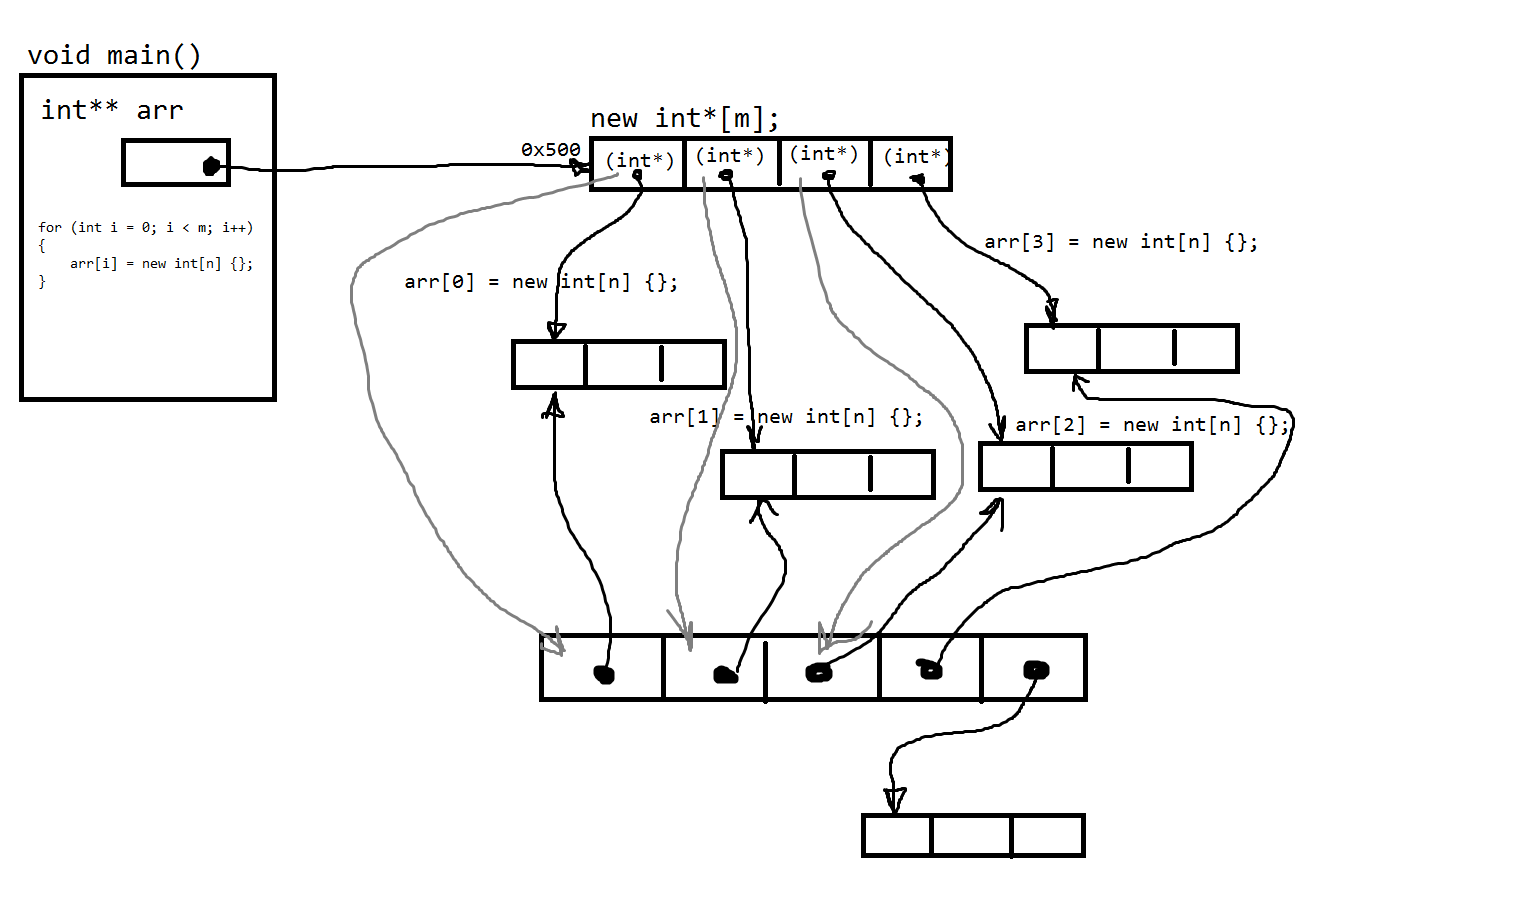
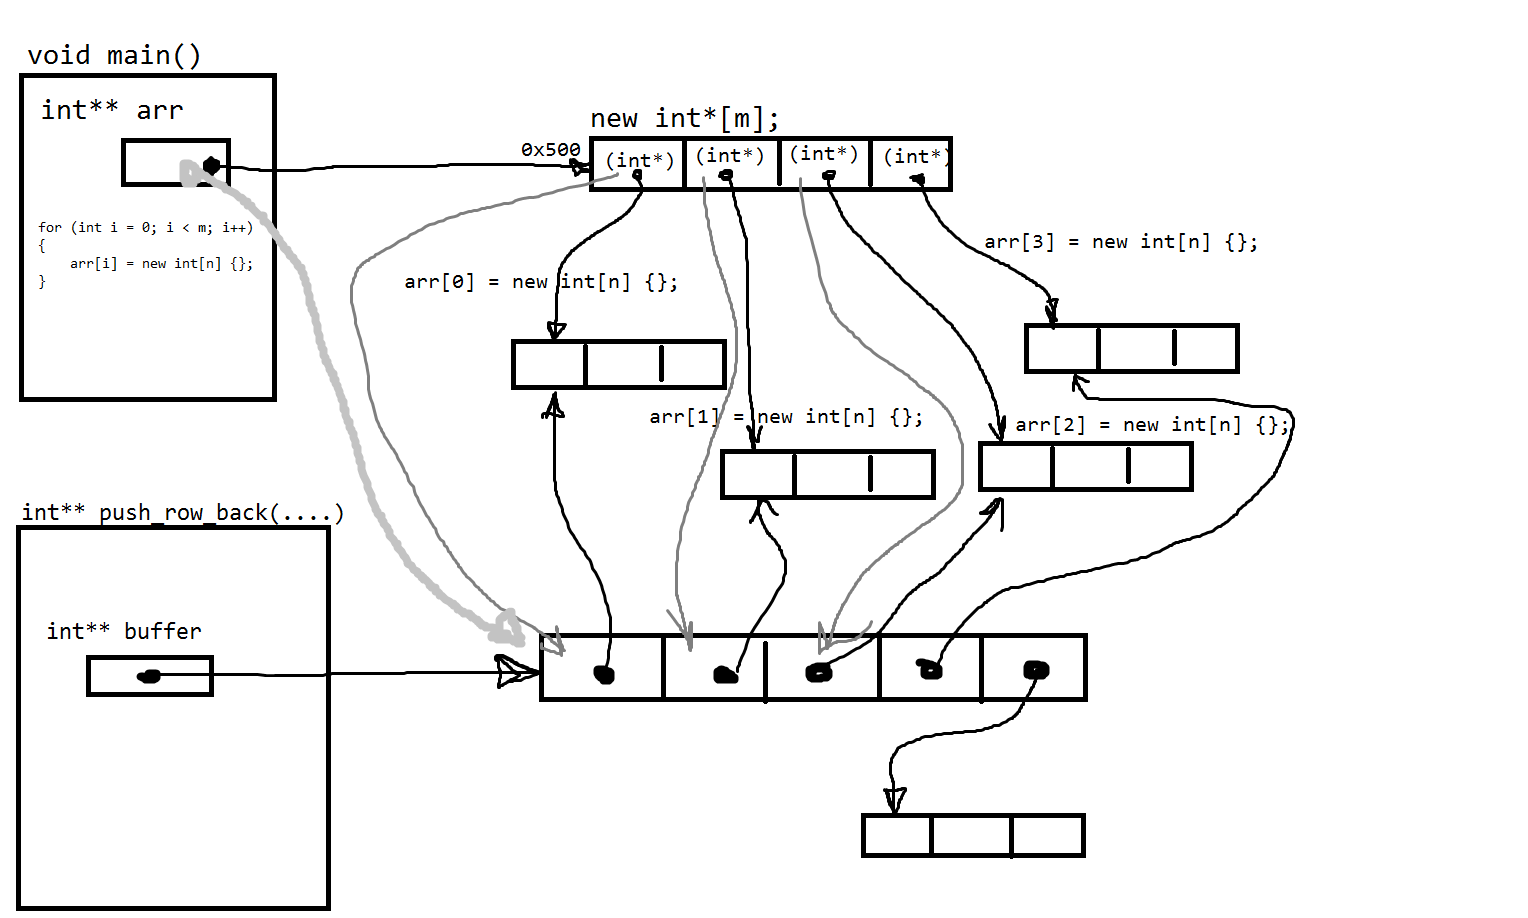
Allocate&Clear DONE.

diff --git a/DynamicMemory/DynamicMemory/main.cpp b/DynamicMemory/DynamicMemory/main.cpp
@@ -7,6 +7,9 @@ using std::endl;
 
 #define tab "\t"
 
+int** Allocate(const int m, const int n);
+void Clear(int** arr, const int m);
+
 void FillRand(int* arr, const int n);
 void FillRand(int** arr, const int m, const int n);
 void Print(int arr[], const int n);
@@ -86,13 +89,7 @@ void main()
 	////////////////////////		ОБЪЯВЛЕНИЕ МАССИВА		//////////////////////////
 	//////////////////////////////////////////////////////////////////////////////////
 
-	//1) Создаем массив указателей:
-	int** arr = new int*[m];
-	//2) Выделяем память под строки:
-	for (int i = 0; i < m; i++)
-	{
-		arr[i] = new int[n] {};
-	}
+	int** arr = Allocate(m, n);
 
 	//////////////////////////////////////////////////////////////////////////////////
 	///////////////////////		ИСПОЛЬЗОВАНИЕ МАССИВА		//////////////////////////
@@ -119,6 +116,27 @@ void main()
 	////////////////////////		УДАЛЕНИЕ МАССИВА		//////////////////////////
 	//////////////////////////////////////////////////////////////////////////////////
 
+	Clear(arr, m);
+	
+#endif // DYNAMIC_MEMORY_2
+
+
+	cout << "That's okey" << endl;
+}
+
+int** Allocate(const int m, const int n)
+{
+	//1) Создаем массив указателей:
+	int** arr = new int*[m];
+	//2) Выделяем память под строки:
+	for (int i = 0; i < m; i++)
+	{
+		arr[i] = new int[n] {};
+	}
+	return arr;
+}
+void Clear(int** arr, const int m)
+{
 	//1) Удаляем строки двумерного массива:
 	for (int i = 0; i < m; i++)
 	{
@@ -126,12 +144,7 @@ void main()
 	}
 	//2) Удаляем массив указателей:
 	delete[] arr;
-#endif // DYNAMIC_MEMORY_2
-
-
-	cout << "That's okey" << endl;
 }
-
 void FillRand(int* arr, const int n)
 {
 	for (int i = 0; i < n; i++)
@@ -251,6 +264,7 @@ int** push_row_back(int** arr, int& m, const int n)
 	}*/
 	//3) Удаляем исходный массив указателей:
 	delete[] arr;
+	arr = buffer;
 	//4) Создаем последнюю строку массива:
 	buffer[m] = new int[n] {};
 	//5)Увеличиваем количество строк:
